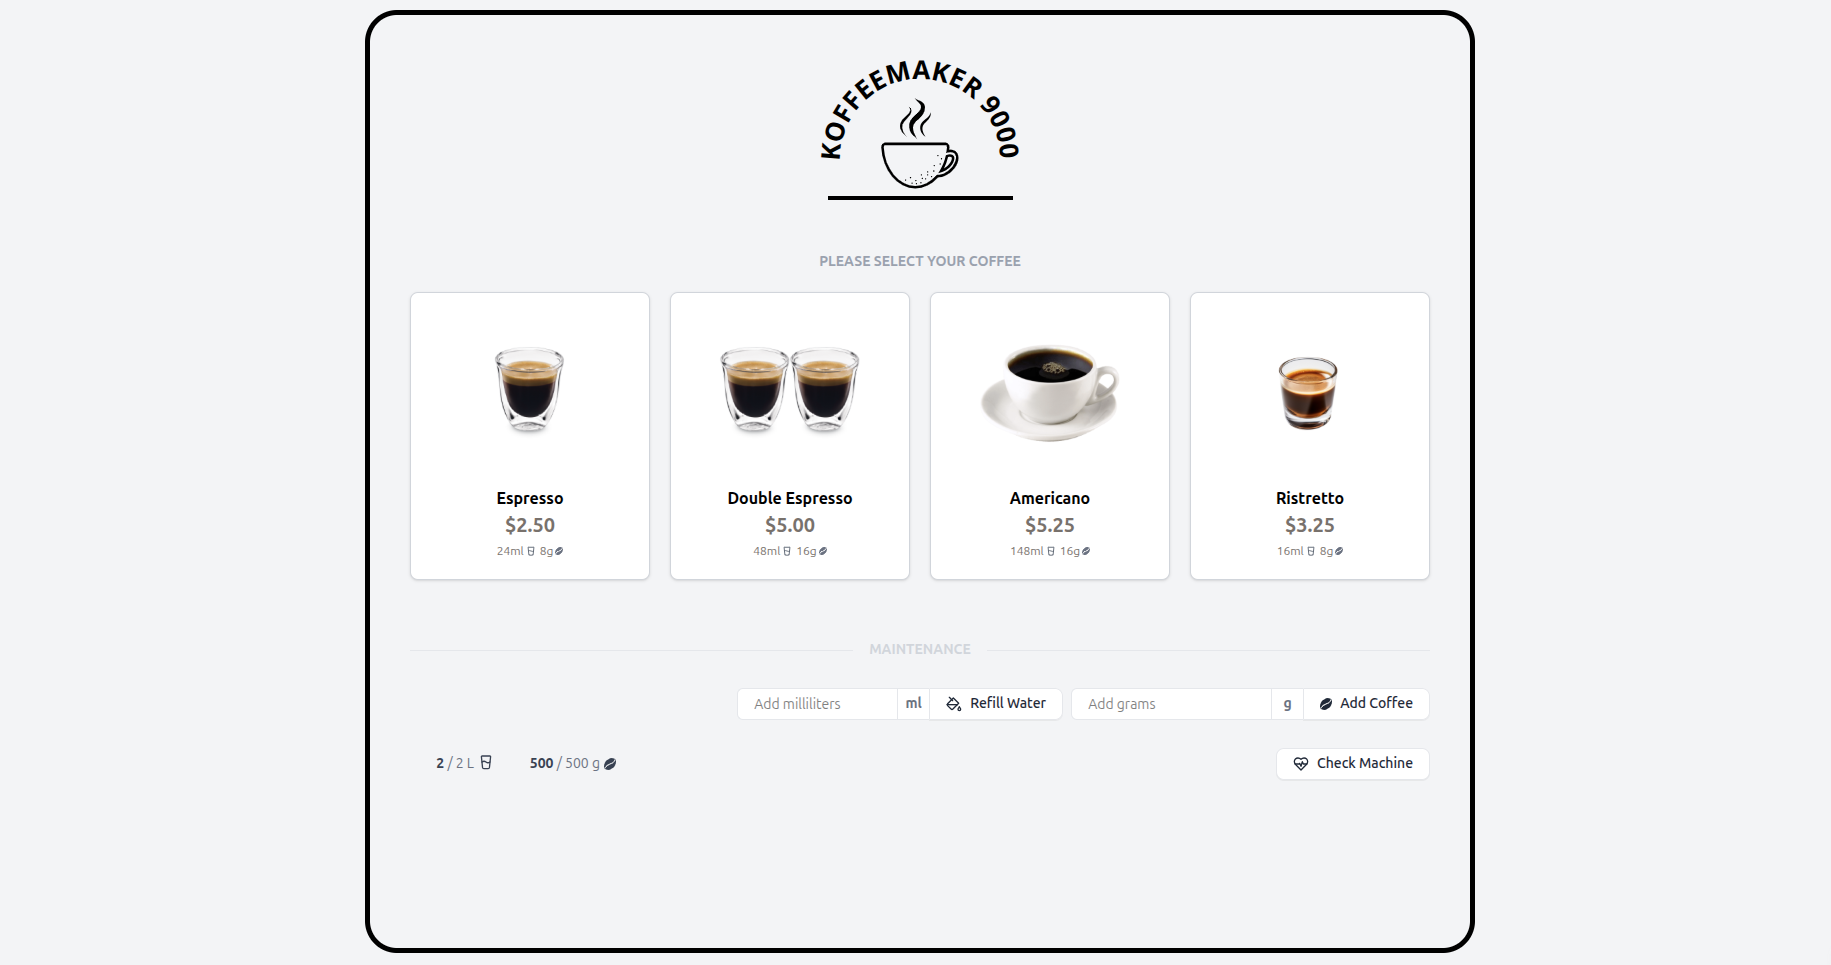
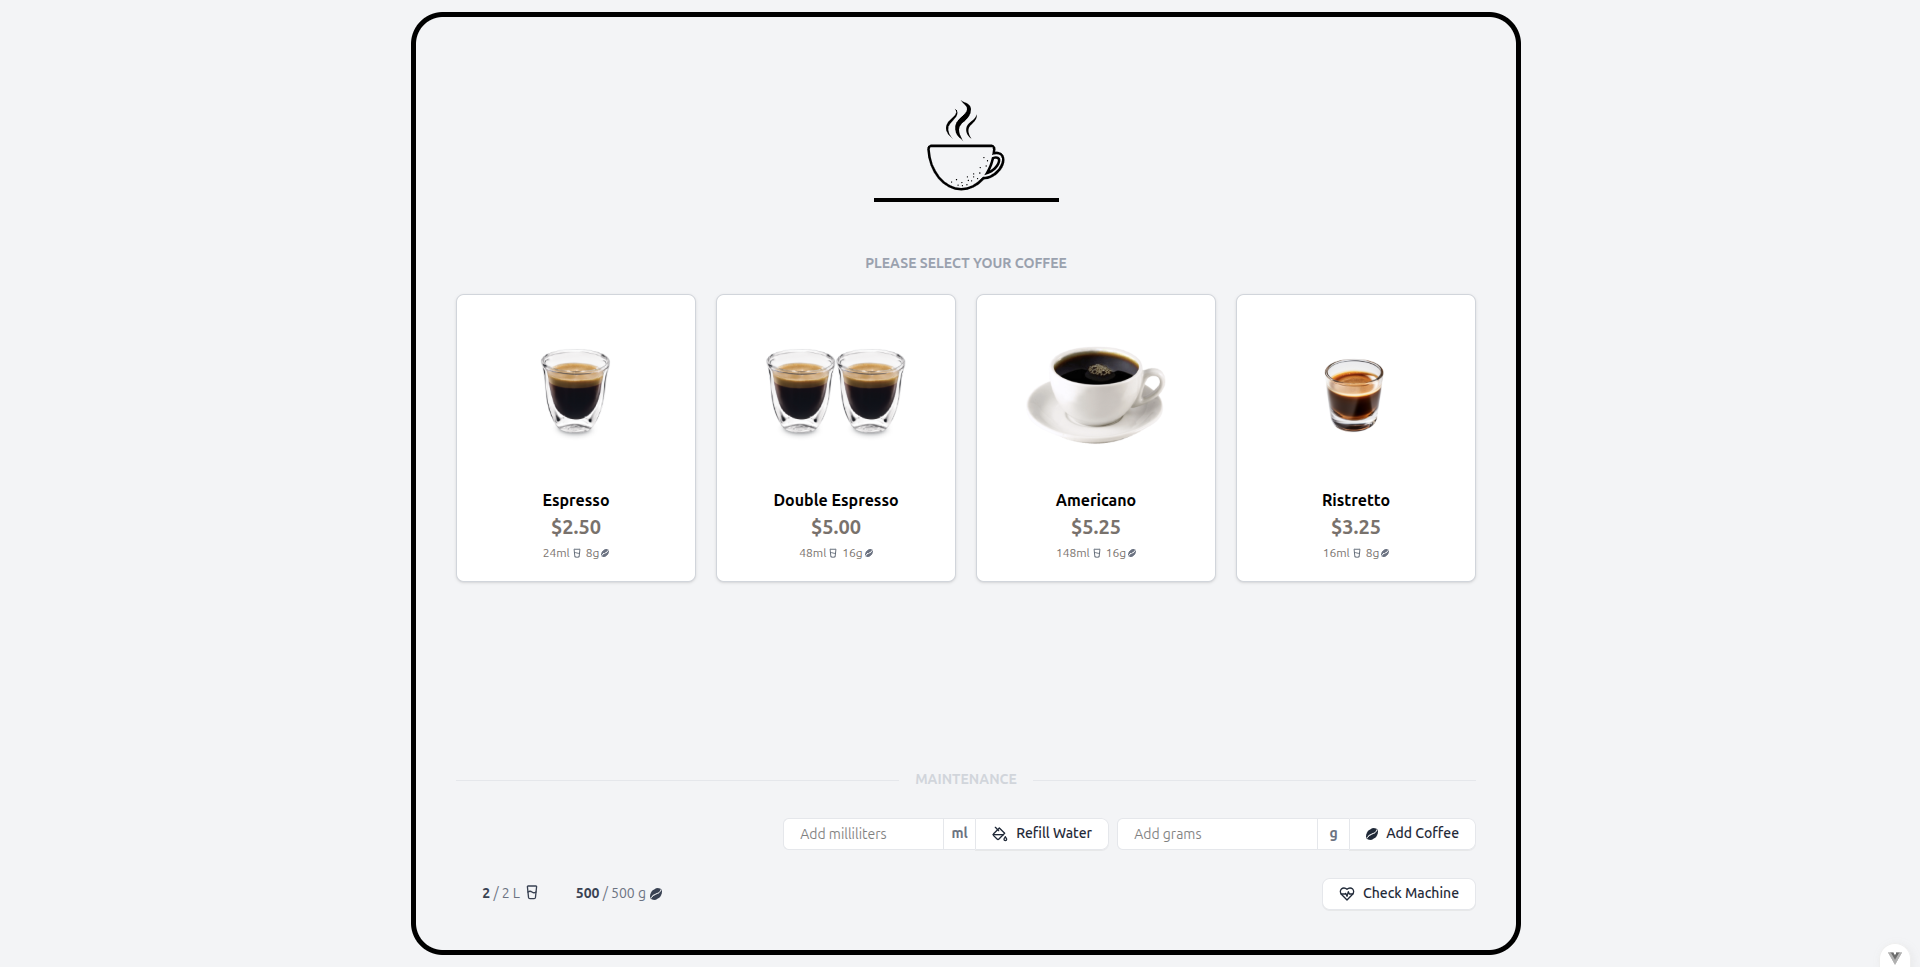
style: fix alignment in CoffeeMachine component and update featured image

diff --git a/ui/src/components/machines/CoffeeMachine.vue b/ui/src/components/machines/CoffeeMachine.vue
@@ -56,6 +56,8 @@ onBeforeMount(() => {
         </template>
       </Flex>
 
+      <div class="flex-1" />
+
       <Flex class="mt-6 flex-col md:mt-10">
         <HorizontalRule class="mb-4">Maintenance</HorizontalRule>
         <Flex class="flex-col items-stretch justify-end gap-4 lg:flex-row lg:items-center lg:gap-2">
